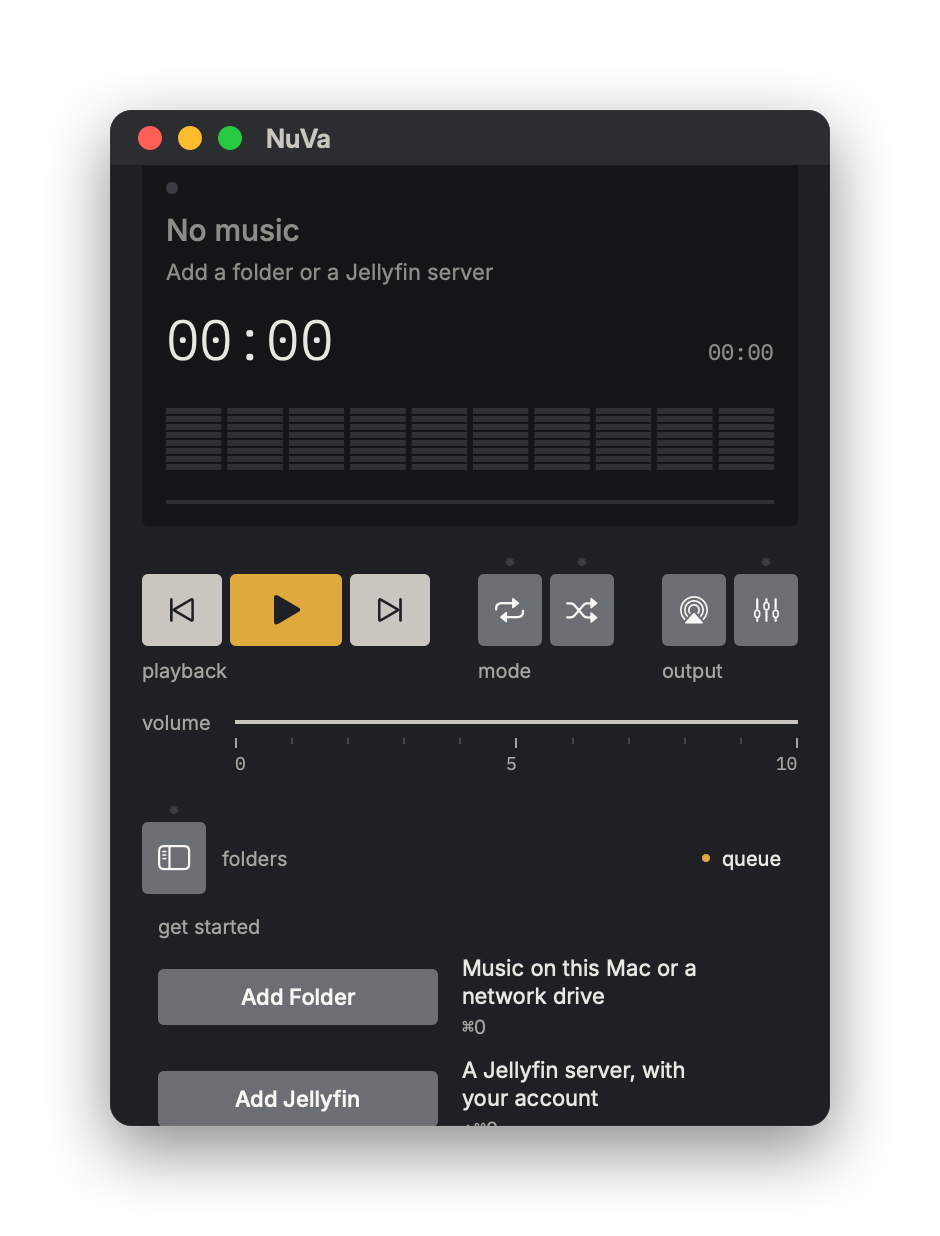
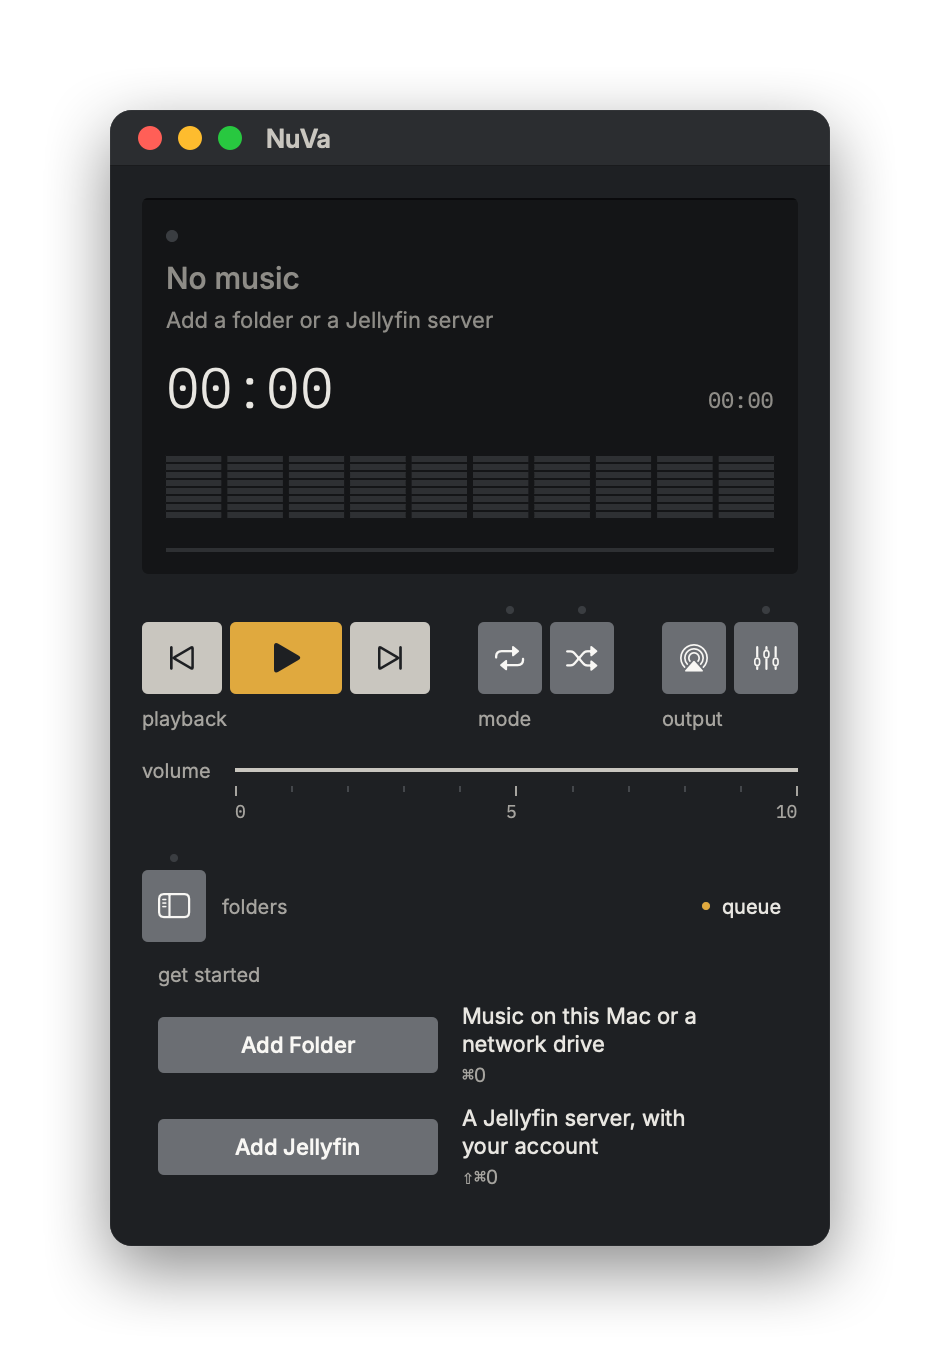
README: folders in the queue's place, free width, new screenshots

diff --git a/scripts/make-readme-images.swift b/scripts/make-readme-images.swift
@@ -131,7 +131,7 @@ func framed(_ items: [(NSImage, Chrome)], name: String, k: Double = 1, gap: Doub
     }
 }
 
-// Hero: icon, name and tagline on top; browser in Lead and player in Aluminium below.
+// Hero: icon, name and tagline on top; the folders in Lead and the queue in Aluminium below, side by side.
 let browser = snapshot("navegador-chumbo")
 let playerLight = snapshot("player-aluminio")
 let heroSize = CGSize(width: 2400, height: 1480)
@@ -149,13 +149,15 @@ canvas(heroSize, "hero.png", background: color("#1E2023")) {
     let k = 0.88
     let b = framedSize(browser, .window(dark: true), k: k)
     let p = framedSize(playerLight, .window(dark: false), k: k)
-    let overlap = 200.0
-    let left = (heroSize.width - (b.width + p.width - overlap)) / 2
+    let gap = 80.0
+    let left = (heroSize.width - (b.width + p.width + gap)) / 2
     drawFramed(browser, .window(dark: true), at: CGPoint(x: left, y: 400), k: k)
-    drawFramed(playerLight, .window(dark: false), at: CGPoint(x: left + b.width - overlap, y: 470), k: k)
+    drawFramed(playerLight, .window(dark: false), at: CGPoint(x: left + b.width + gap, y: 400), k: k)
 }
 
-framed([(snapshot("navegador-chumbo"), .window(dark: true))], name: "browser.png")
+// ⌘B swaps the queue and the folders below the keys.
+framed([(snapshot("player-chumbo"), .window(dark: true)), (snapshot("navegador-chumbo"), .window(dark: true))],
+       name: "browser.png")
 framed([(snapshot("player-chumbo"), .window(dark: true)), (snapshot("player-aluminio"), .window(dark: false))],
        name: "themes.png")
 framed([(snapshot("compacto-chumbo"), .window(dark: true))], name: "compact.png")

diff --git a/README.md b/README.md
@@ -72,9 +72,9 @@ Turn on **View › Show Artwork** (⌥⌘A) and NuVa shows the album cover in a 
 
 ## Browse folders, play a whole album
 
-<p align="center"><img src="docs/screenshots/browser.png" width="760" alt="Folder browser next to the player"></p>
+<p align="center"><img src="docs/screenshots/browser.png" width="760" alt="The folders in the queue's place, below the keys"></p>
 
-Open the folder drawer with the **folders** key or **⌘B**. Each folder shows how many tracks it holds; double-click one to play it from the top, or **⌘Enter** to add it to the queue. Drag the window taller to see the whole album at once, or double-click the title bar to fill the screen height.
+Press the **folders** key or **⌘B** and your folders take the queue's place, below the keys; press it again for the queue. Each folder shows how many tracks it holds; double-click one to play it from the top (the queue comes back with it), or **⌘Enter** to add it to the queue. Drag the window taller to see the whole album at once, or wider for long file names.
 
 ## Audio CDs, like a CD player
 
@@ -152,8 +152,8 @@ xattr -dr com.apple.quarantine /Applications/NuVa.app
 | Space | Play / pause |
 | ⌘→ · ⌘← | Next · previous |
 | ⌘↑ · ⌘↓ | Volume up · down |
-| ⌘B | Show or hide folders |
-| ⌘1 · ⌘2 · ⌘3 | Player · with browser · compact |
+| ⌘B | Swap the queue and the folders |
+| ⌘1 · ⌘2 · ⌘3 | Queue · folders · compact |
 | ⌥⌘1 · ⌥⌘2 … | Skin (also in View ▸ Skin) |
 | ⌥⌘A | Show or hide folder artwork |
 | ⌥⌘V | Show or hide the spectrum meter |
@@ -198,7 +198,7 @@ Toca FLAC pelo motor de áudio da própria Apple, envia o som para as tuas colun
 - **Soa como deve.** FLAC, ALAC, WAV e AIFF pelo AVFoundation, o mesmo motor do QuickTime.
 - **AirPlay 2.** WiiM, HomePod, Apple TV ou qualquer coluna AirPlay.
 - **Jellyfin sem confusão.** Navega pelas pastas reais do servidor e toca os ficheiros originais.
-- **Três tamanhos.** Player, com navegador e compacto. A janela estica na vertical para veres o álbum inteiro.
+- **Uma janela pequena.** As pastas aparecem no lugar da fila (⌘B troca as duas) e há um modo compacto. A janela estica na vertical para veres o álbum inteiro, e na horizontal para nomes compridos.
 - **Skins:** Nuno (claro ou escuro, como o sistema), Graphite Orange e Graphite Green (sempre escuras), em Visualização › Skin. Fonte Inter + IBM Plex Mono ou SF Pro + SF Mono, em Visualização › Fonte.
 - **Capas, se quiseres:** Visualização › Mostrar capas (⌥⌘A). Usa a imagem da pasta (`cover`, `folder`, `front`, `album` ou `capa`); se não houver, procura no MusicBrainz pelo nome das pastas. Nunca das tags. Capa errada ou em falta: carrega na capa e corrige o artista ou o álbum, ou escolhe uma imagem. Desligado por defeito.
 - **CDs áudio, como um leitor de CDs.** Mete um disco no leitor e a NuVa toca-o logo. Os nomes do álbum e das faixas vêm do MusicBrainz, pelo índice do disco (um CD não traz nomes). Ejetar com ⌘E. Para abrir a NuVa sempre que entra um CD: Definições do Sistema › CDs e DVDs › Ao inserir um CD de música › Abrir outra aplicação… › NuVa.
@@ -216,4 +216,4 @@ Toca FLAC pelo motor de áudio da própria Apple, envia o som para as tuas colun
 
 Só é preciso uma vez.
 
-Atalhos: Espaço tocar/pausa · ⌘→ ⌘← seguinte/anterior · ⌘↑ ⌘↓ volume · ⌘B pastas · ⌘1 ⌘2 ⌘3 tamanho da janela · ⌥⌘1 ⌥⌘2 … skin · ⌥⌘A capas · ⌥⌘V espectro · ⌘L faixa atual · ⌘O adicionar pasta · ⇧⌘O adicionar Jellyfin.
+Atalhos: Espaço tocar/pausa · ⌘→ ⌘← seguinte/anterior · ⌘↑ ⌘↓ volume · ⌘B fila ou pastas · ⌘1 ⌘2 ⌘3 fila, pastas, compacto · ⌥⌘1 ⌥⌘2 … skin · ⌥⌘A capas · ⌥⌘V espectro · ⌘L faixa atual · ⌘O adicionar pasta · ⇧⌘O adicionar Jellyfin.
